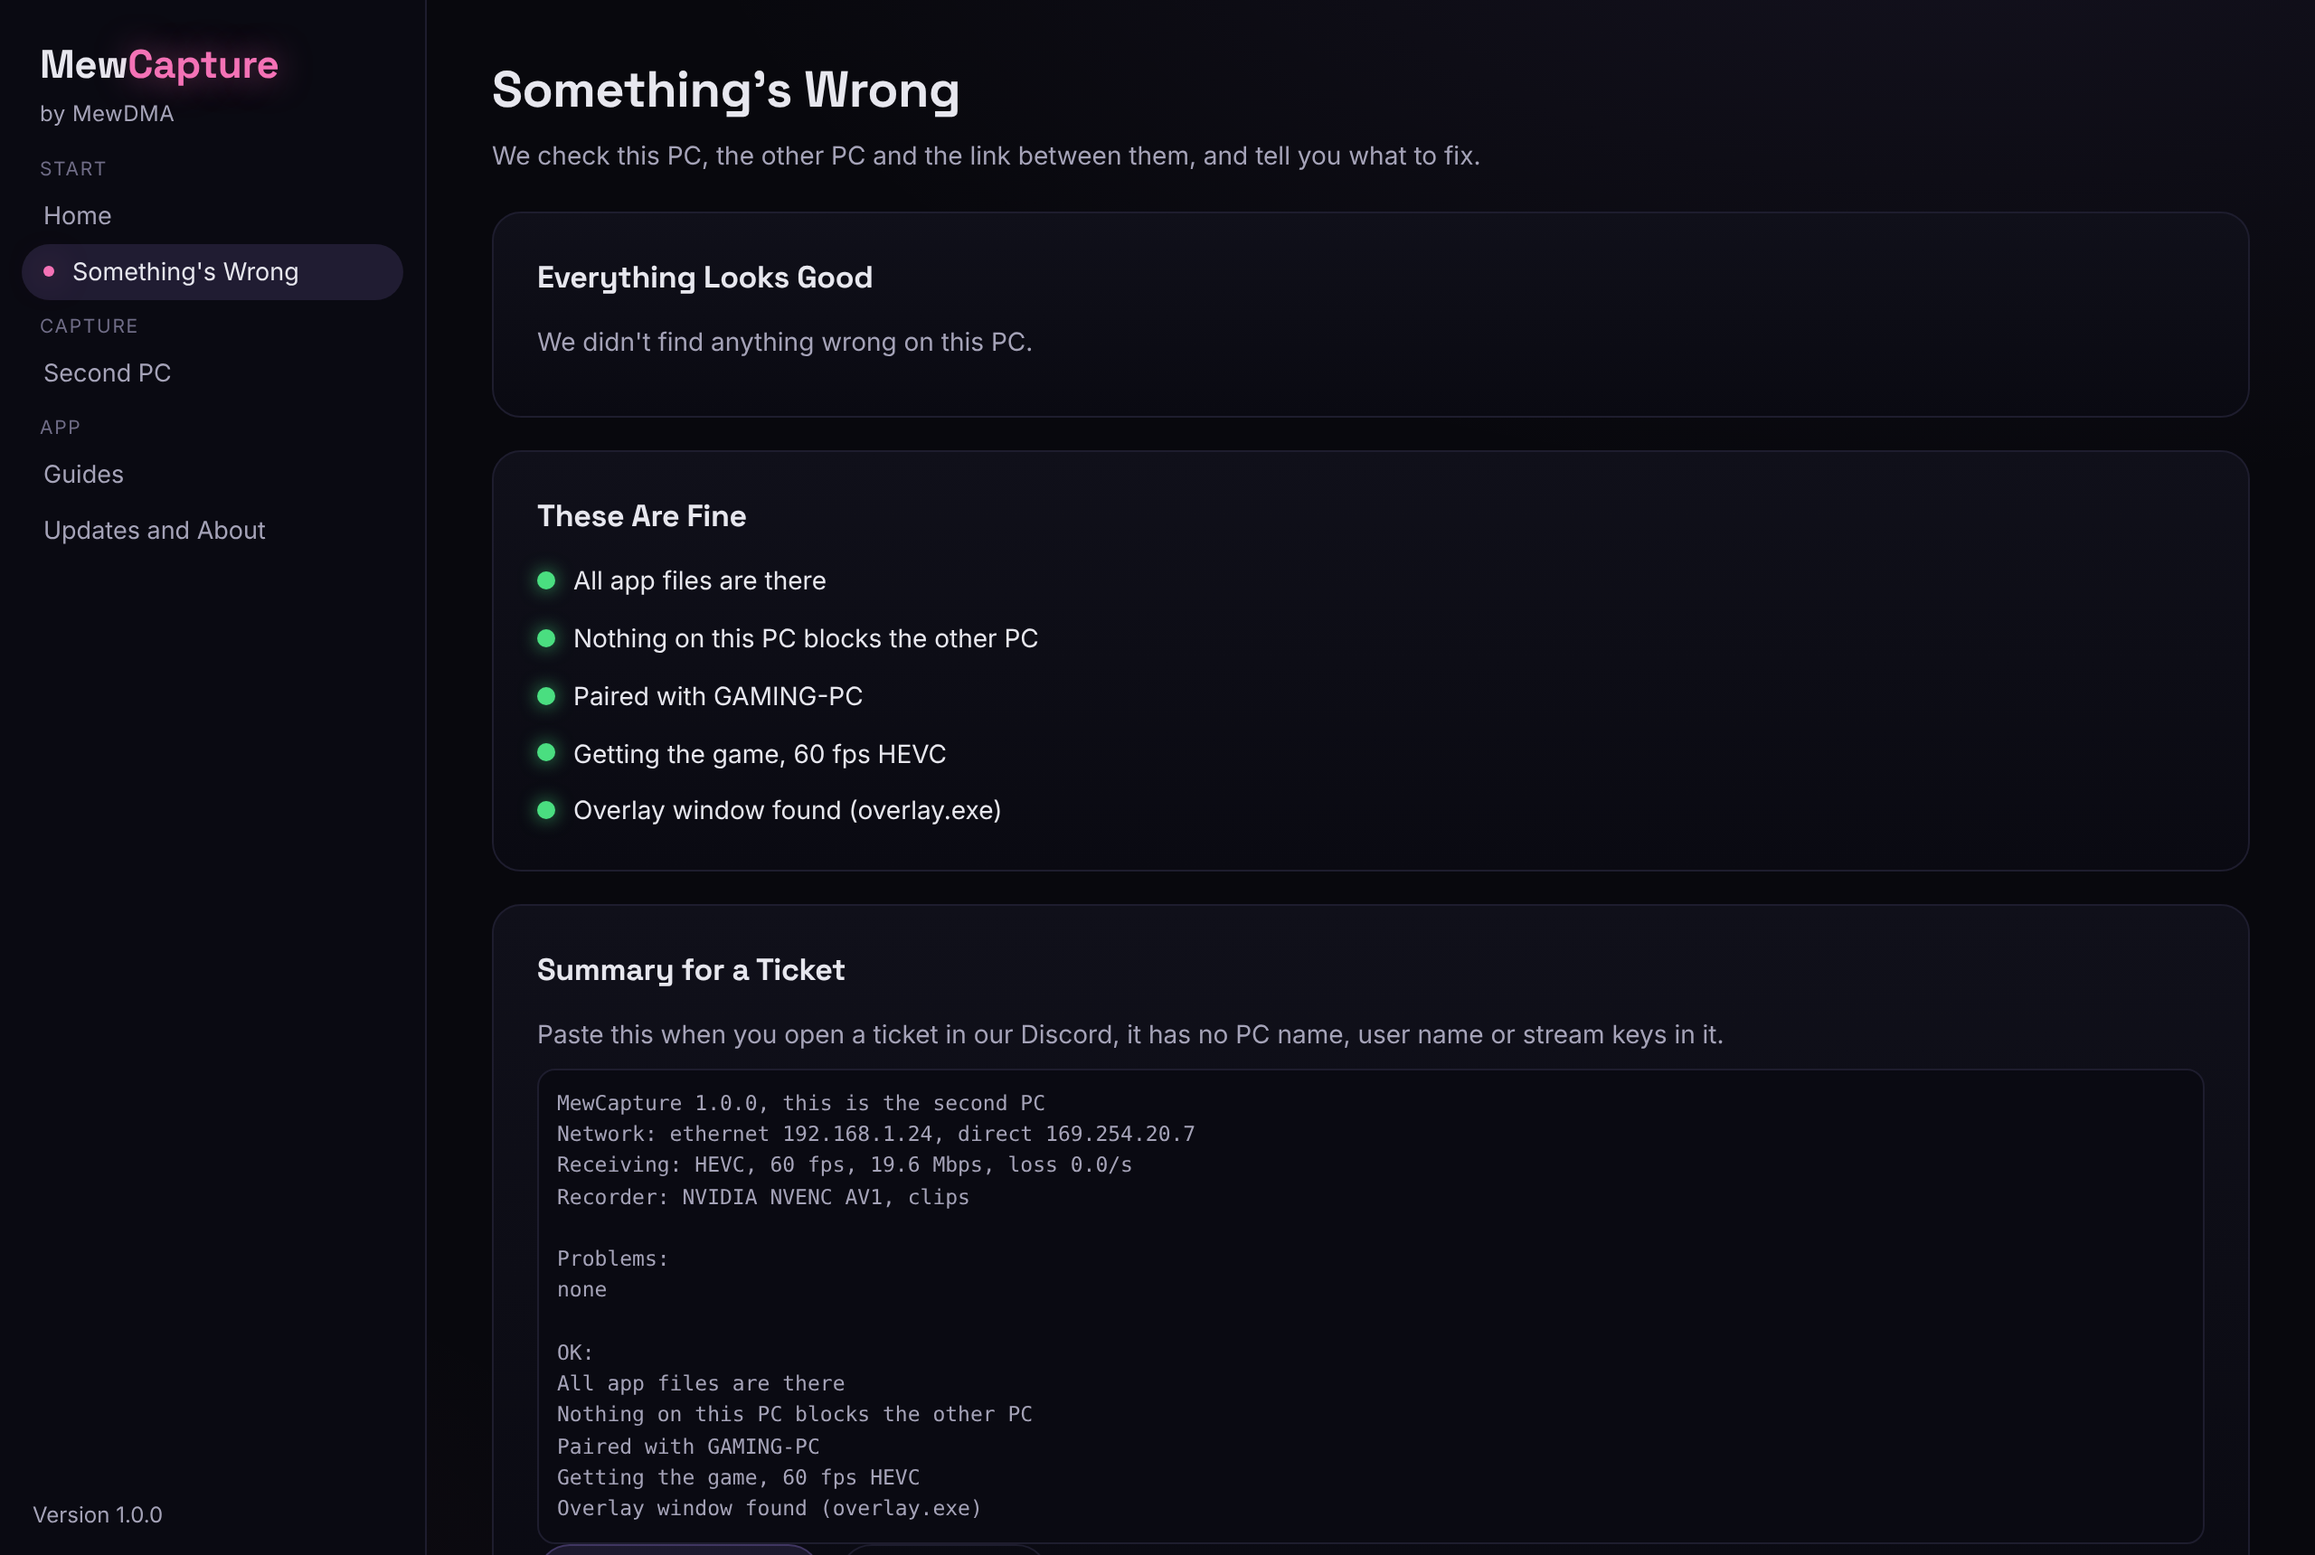
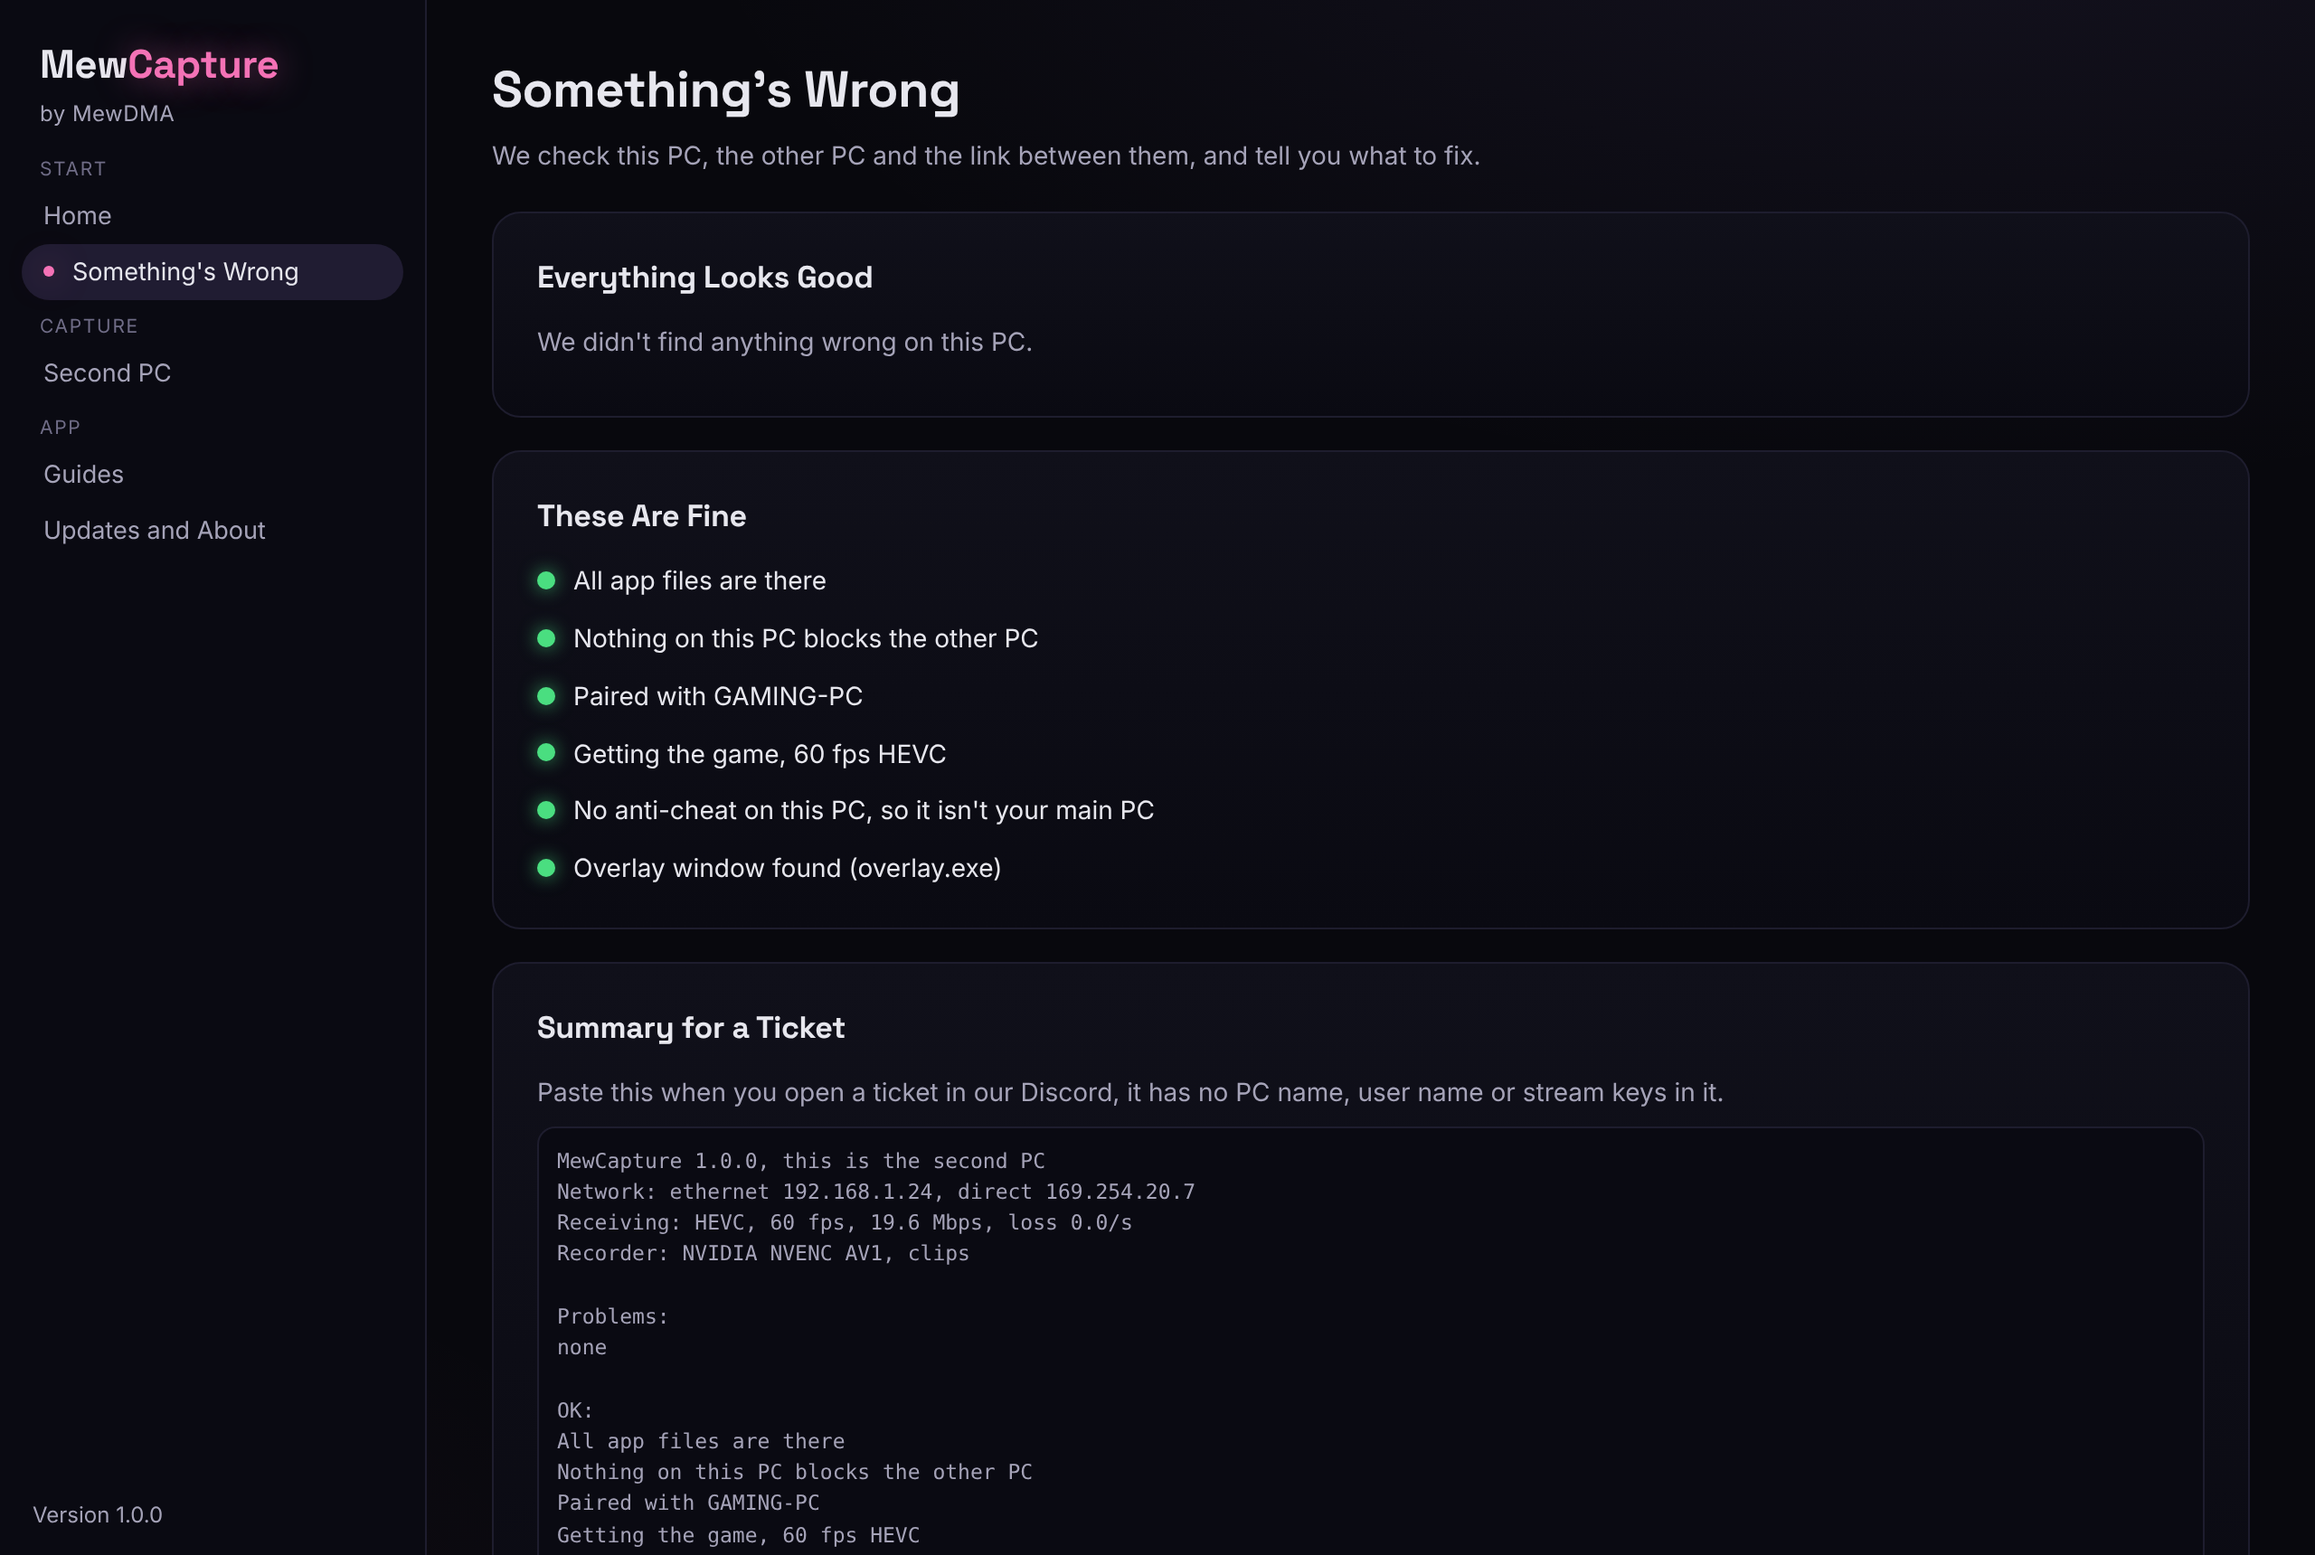
Update docs

Changed region(s): [[0.2188, 0.6163, 0.7188, 1.0], [0.2188, 0.5547, 0.4375, 0.5855], [0.25, 0.493, 0.4375, 0.5238]]

diff --git a/docs/guide.md b/docs/guide.md
@@ -2,7 +2,7 @@
 
 Made from `app/src/guide-data.ts`, the same steps and pictures as the Guide screen in the app. Edit that file, then run `node scripts/guide-md.mjs` in `app/`.
 
-> **Never run your overlay on the main PC. Anti-cheats take screenshots of the main PC and scan them, also with AI, for things like ESP, so your overlay only ever runs on the second PC and MewCapture puts it on the video there. If we see something on the main PC that looks like an overlay we warn you in red, so close it right away. MewCapture only captures the screen like Discord does and never touches the game.**
+> **Your main PC is never the recording or streaming PC. Anti-cheats take screenshots of the main PC and scan them, also with AI, for things like ESP, so the overlay only ever runs on the second PC. Record, stream and use the projector or OBS there too, and never send the overlay or MewCapture's output back to the main PC to put your game under it. MewCapture warns you in red if it sees that.**
 
 ## Step by step
 
@@ -72,15 +72,19 @@ Press the clip hotkey on either PC to save the last 30 seconds to 2 minutes, wit
 
 ![Clip That](screenshots/clips.png)
 
-## The overlay never goes on the main PC
+## The main PC only plays and sends the game
 
-Never run your overlay on the main PC. Anti-cheats take screenshots of the main PC and scan them, also with AI, for things like ESP, so your overlay only ever runs on the second PC and MewCapture puts it on the video there. If we see something on the main PC that looks like an overlay we warn you in red, so close it right away. MewCapture only captures the screen like Discord does and never touches the game.
+Your main PC is never the recording or streaming PC. Anti-cheats take screenshots of the main PC and scan them, also with AI, for things like ESP, so the overlay only ever runs on the second PC. Record, stream and use the projector or OBS there too, and never send the overlay or MewCapture's output back to the main PC to put your game under it. MewCapture warns you in red if it sees that.
 
 MewCapture only captures the screen the same way Discord streaming does, with Windows Graphics Capture or DXGI desktop duplication. It never injects into or hooks the game, never puts a DLL in it and never reads its memory, which is also why there's no OBS style game capture hook.
 
 The main PC only sends the game, and everything else like scenes, the overlay, your webcam, clips, recording and streaming happens on the second PC.
 
-![The overlay never goes on the main PC](screenshots/safety.svg)
+Some people try to save the second PC some work by sending the overlay back to the main PC, or by running the projector or OBS on the main PC and putting the game under the overlay there. That puts your overlay on the main PC's screen, right where anti-cheats look.
+
+So MewCapture shows a red warning when its output or the projector runs on a PC with an anti-cheat, and when OBS or another streaming app runs on your main PC. Close it there and record or stream on the second PC.
+
+![The main PC only plays and sends the game](screenshots/safety.svg)
 
 ## Direct cable, the lightest setup
 

diff --git a/docs/security.md b/docs/security.md
@@ -6,7 +6,7 @@ MewCapture runs as admin on both PCs, because it adds a firewall rule so the oth
 
 On the main PC MewCapture only captures the screen or the game window, the same way Discord streaming does, with Windows Graphics Capture or DXGI desktop duplication. It never injects anything into the game, never puts a DLL in it, never hooks it and never reads its memory. For the keys and mouse overlay it only asks Windows which keys are held down, like any app can.
 
-Your overlay never runs on the main PC. Anti-cheats take screenshots of the main PC and scan them, also with AI, for things like ESP, so the overlay only ever runs on the second PC. If the app sees a window on the main PC that looks like an overlay, it warns you in red.
+Your main PC is never the recording or streaming PC. Anti-cheats take screenshots of the main PC and scan them, also with AI, for things like ESP, so the overlay only ever runs on the second PC, and so do the projector, OBS, recording and streaming. Don't send the overlay or MewCapture's output back to the main PC to put your game under it there. MewCapture shows a red warning when its output or the projector runs on a PC with an anti-cheat, and when OBS or another streaming app runs on your main PC.
 
 ## Your network
 

diff --git a/README.md b/README.md
@@ -35,7 +35,7 @@ The game goes directly from the screen into your graphics card's video encoder a
 <td valign="top">
 
 **Your overlay, safely**<br>
-Your overlay only ever runs on the second PC, we remove its background for you and warn you if an overlay shows up on the main PC
+Your overlay only ever runs on the second PC and we remove its background for you. If MewCapture's output, the projector or OBS ends up on the main PC, you get a red warning
 
 </td>
 <td valign="top">
@@ -93,7 +93,7 @@ Checks both PCs and the connection, tells you what's off and how to fix it and m
 
 1. Download the installer from <a href="https://github.com/MewDMA/MewCapture/releases/latest">releases</a> and install it on **both** PCs
 2. Run it. Windows might say "Windows protected your PC", click More info then Run anyway. That's just because the app isn't code signed yet
-3. Open MewCapture, it asks for admin so it can open the firewall for the other PC. Your overlay only goes on the second PC, never on the main PC
+3. Open MewCapture, it asks for admin so it can open the firewall for the other PC. Your overlay, recording and streaming only go on the second PC, never on the main PC
 
 ---
 
